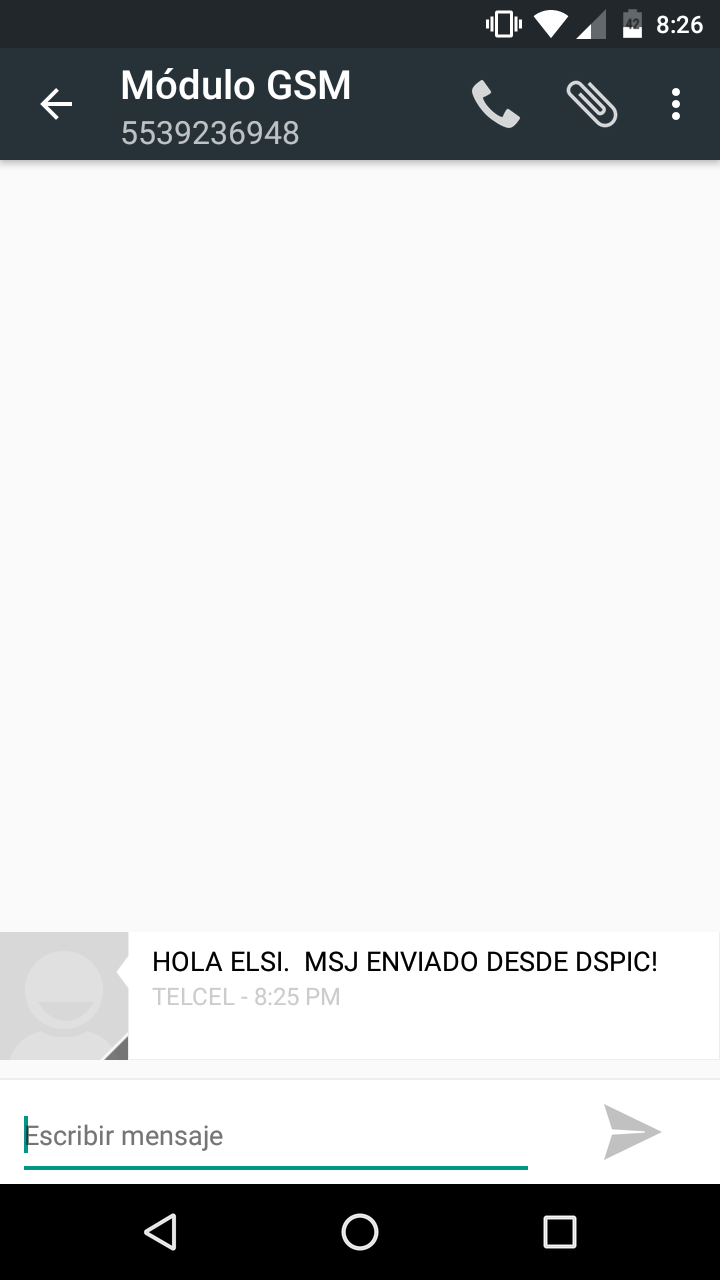
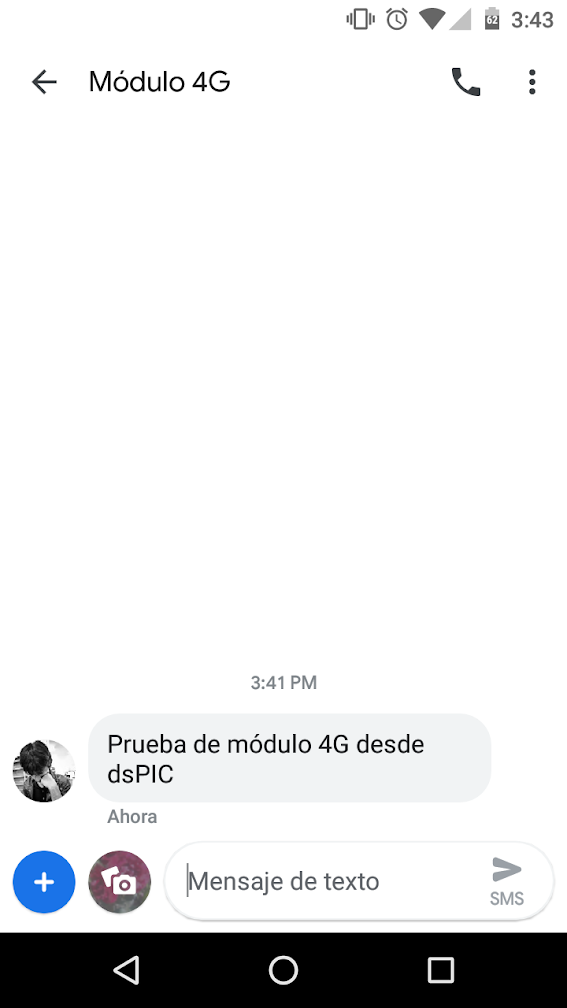
Actualizando documento

Changed region(s): [[0.0, 0.0, 1.0, 0.1538], [0.0, 0.6458, 0.9295, 0.9226], [0.8395, 0.8304, 0.9295, 0.9226]]

diff --git a/C2-DT/AvancesPruebas/pantallas.tex b/C2-DT/AvancesPruebas/pantallas.tex
@@ -1,242 +1,21 @@
-%=================ESTADO DEL ARTE Y MARCO TEÓRICO=================
+\section{Aplicación móvil}
 
-%=================ESTADO DEL ARTE=================
-\section{Estado del arte}
-%\TODO \textbf{Recuerdo que había que diferenciar entre los artículos y las tesis pero no sé cómo hacerlo. ¿Así está bien?} 
-\subsection{Tesis}
-	Diana Olvera y José Gonzáles proponen un Sistema de Monitoreo de Signos Vitales capaz de monitorear la presión arterial, el ritmo cardíaco y la temperatura corporal desde el mismo dispositivo con la finalidad de que estas mediciones puedan ser realizadas desde cualquier lugar  sin tener un amplio conocimiento en medicina para su uso. Este sistema se desarrolló implementando el PIC18F4550 para procesar las señales provenientes de los sensores y desplegarlos en un display LCD[2].\\
-	
-	En el “Sistema de monitoreo remoto y evaluación de signos vitales en pacientes con enfermedades crónicas”, López, Guerrero y Ramos proponen un sistema que sensa los signos vitales de un paciente y utiliza bluetooth y WiFi para transmitir dicha información a un dispositivo móvil encargado de evaluarla y alertar a alguna persona en caso de requerirse[3].\\
-	
-	Existe un prototipo de hardware/software propuesto por Chávez, Martínez y Torres el cual mediante el uso de un sistema embebido dentro de un microcontrolador DSPIC30F3013 ayuda en el procesamiento, medición y envío mediante una red, tres signos vitales (presión arterial, frecuencia cardiaca y temperatura corporal), dichas mediciones son procesadas por el microcontrolador y enviadas mediante UART hacia un controlador Ethernet para ser recibidas y mostradas por una aplicación diseñada para el usuario[4]. \\
+Un completo análisis para el desarrollo de la aplicación móvil se incluye como Anexo de este documento. Esta sección pretende mostrar los resultados de la implementación realizada.
 
-\subsection{Artículos}
-	El prototipo diseñado por Li, Cummings, Lan, Graves y Wu en [5], es un sistema de monitoreo de la frecuencia cardiaca y respiratoria de bebés. Está compuesto por una unidad de monitoreo y una unidad receptora. Con un circuito de radiofrecuencia es capaz de producir y recibir señales de radio para la detección de los signos vitales sin la necesidad de que un sensor tenga contacto con el bebé. Utiliza un microcontrolador para procesar la señal recibida y un chip de comunicación XBee para la comunicación inalámbrica con el módulo receptor. \\
-	
-	En el artículo [6], Girbau, Ramos , Lázaro y Villarino, propone un sistema para el monitoreo de los signos vitales utilizando un radar Doppler y la interfaz Zigbee para enviar la información del sensor de microondas. En este sistema se detecta la respiración y la frecuencia cardiaca, se adquiere con el sistema Zigbee y se transmite vía radiofrecuencia. Permite el monitoreo simultáneo de varias personas localizadas en diferentes nodos Zigbee. \\
-	
-	Cruz y Barros proponen en [7] el uso de PDAs la adquisición de los signos vitales y su transmisión a un servidor de cuidados de la salud en donde un especialista pueda analizar el electrocardiograma (ECG) generado. Para la adquisición del ECG utiliza electrodos en el paciente. Y para la sincronización de los datos almacenados en la PDA con el servidor, requiere de una conexión a Internet.
-	
-%=================MARCO TEÓRICO=================
-\section{Marco teórico}
-	\subsection{Internet de las cosas (IoT)}
-	El Internet de las cosas (IoT) es un concepto y un paradigma que considera la presencia generalizada en el entorno de una variedad de cosas/objetos que contienen tecnología integrada para comunicarse a través de conexiones alámbricas e inalámbricas con el fin de interactuar entre sí y cooperar con otras cosas/objetos para crear nuevas aplicaciones/servicios y alcanzar objetivos comunes.
-	
-	\subsection{Sistemas embebidos}
-	Los sistemas embebidos son combinaciones de software y hardware con restricciones de recursos que se dedica a una aplicación o parte específica de una aplicación o sistema más grande. Son controlados por una computadora incrustada en ellos, lo que implica que se encuentra dentro del sistema general, oculto a la vista, formando una parte integral de un conjunto mayor. Es probable que dicha computadora sea un microprocesador o microcontrolador.\\
-	
-	Los sistemas embebidos tienen varias características comunes:
-	\begin{itemize}
-		\item Un sistema embebido generalmente ejecuta solo un programa, repetidamente.
-		\item Su diseño debe ser optimizado para reducir costo y espacio. Contienen sólo los recursos de hardware suficientes para cumplir con  los  requerimientos  de  funcionalidad  de  la  aplicación.
-		\item Muchos sistemas embebidos deben reaccionar continuamente a los cambios en el entorno del sistema y deben calcular ciertos resultados sin demora.
-	\end{itemize}
-	\subsubsection{Arquitectura de los sistemas embebidos}
-	\TOCHK{Agregar imagen y descripción de su arquitectura}
-	\subsection{Signos vitales}
-	Los signos vitales son indicadores que reflejan el estado fisiológico de los órganos vitales (cerebro, corazón, pulmones). Sus variaciones expresan cambios que ocurren en el organismo, algunos de índole fisiológico y otros de tipo patológico. Los valores considerados normales se ubican dentro de rangos y estos rangos varían según la edad y en algunos casos también con el sexo. Los cuatros principales signos vitales son: 
-	\begin{enumerate}
-		\item Frecuencia cardíaca.
-		\item Frecuencia respiratoria.
-		\item Presión arterial.
-		\item Temperatura.
-	\end{enumerate}
+La aplicación permitirá al usuario registrar ciertos datos de los pacientes, incluyendo el número telefónico asociado a la tarjeta SIM ubicada en el módulo 4G. Una vez registrado un usuario, podrá consultar y editar esta información. \\
 
-	\subsubsection{Frecuencia cardíaca}
-	El pulso está representado por la expansión rítmica de las arterias producida por el pasaje de sangre que es bombeada por el corazón originada en la contracción del ventrículo izquierdo, y que resulta en la expansión y contracción regular del calibre de las arterias; representa el rendimiento del latido cardíaco y la adaptación de las arterias.\\
-	
-	Los valores del Pulso arterial se miden a partir de la “Frecuencia Cardíaca” o sea el número de pulsaciones o latidos que ocurren en “Un Minuto”. La frecuencia cardíaca varía dependiendo de diferentes factores, como: la edad, sexo, actividad física, estado emocional, fiebre, medicamentos y hemorragias.
-	
-	\begin{table}[htbp]
-		\begin{center}
-			\begin{tabular}{|l|l|}
-				\hline
-				\textbf{Edad} & \textbf{Pulsaciones por minuto} \\
-				\hline \hline
-				Recién nacido & 120 - 170  \\
-				\hline
-				Lactante menor & 120 - 160  \\
-				\hline
-				Lactante mayor & 110 - 130  \\
-				\hline
-				De 2 a 4 años & 100 - 120  \\
-				\hline
-				De 6 a 8 años & 100 - 115  \\
-				\hline
-				Adulto & 60 - 80  \\
-				\hline
-			\end{tabular}
-			\caption{Valores normales de frecuencia cardíaca.}
-		\end{center}
-	\end{table}
+Al consultar los registros de los signos vitales, se recuperará la información de los mensajes de texto y de la base de datos para mostrar la información actualizada de estas mediciones. \\
 
-	\subsubsection{Frecuencia respiratoria}
-	Respiración es el término que se utiliza para indicar el intercambio de oxígeno y dióxido de carbono que se lleva a cabo en los pulmones y tejidos. El ciclo respiratorio comprende una fase de inspiración y otra de espiración:
-	\begin{itemize}
-		\item \textbf{Inspiración:} fase activa; se inicia con la contracción del diafragma y los músculos intercostales.
-		\item \textbf{Espiración:} fase pasiva; depende de la elasticidad pulmonar.
-	\end{itemize}
-	
-	La frecuencia respiratoria es el número de respiraciones que suceden en un minuto, y comprende el proceso de inhalación y exhalación.\\
-	
-	La frecuencia se mide por lo general cuando una persona está en reposo y consiste simplemente en contar la cantidad de respiraciones durante un minuto cada vez que se eleva el pecho. La frecuencia respiratoria puede aumentar con la fiebre, las enfermedades y otras afecciones médicas.
-	
-	\begin{table}[htbp]
-		\begin{center}
-			\begin{tabular}{|l|l|}
-				\hline
-				\textbf{Edad} & \textbf{Respiraciones por minuto} \\
-				\hline \hline
-				Recién nacido & 30 - 80  \\
-				\hline
-				Lactante menor & 20 - 40  \\
-				\hline
-				Lactante mayor & 20- 30  \\
-				\hline
-				De 2 a 4 años & 20- 30  \\
-				\hline
-				De 6 a 8 años & 20 - 25  \\
-				\hline
-				Adulto & 12 -20  \\
-				\hline
-			\end{tabular}
-			\caption{Valores normales de frecuencia respiratoria.}
-		\end{center}
-	\end{table}
-	
-	\subsubsection{Presión arterial}
-	Es una medida de la presión que ejerce la sangre sobre las paredes arteriales en su impulso a través de las arterias. Debido a que la sangre se mueve en forma de ondas, existen dos tipos de medidas de presión: la presión sistólica, que es la presión de la sangre debida a la contracción de los ventrículos, es decir, la presión máxima; y la presión diastólica, que es la presión que queda cuando los ventrículos se relajan; ésta es la presión mínima. Tanto la presión sistólica como la diastólica se registran en "mm de Hg" (milímetros de mercurio). \\
-	
-	La Presión arterial media se calcula con la siguiente fórmula: 
-	
+Estas funcionalidades se muestran en la figura \ref{fig:casosUso:AplicacionResumen}
+
+\begin{figure}[htpb!]
 	\begin{center}
-		\textit{PA = Presión sistólica – Presión diastólica / 3 + Presión diastólica.}
+		\fbox{\includegraphics[width=1\textwidth]{ModeloComportamiento/imagenes/CasosUso_Usuario.png}}
+		\caption{Diagrama de casos de uso del módulo Aplicación Móvil. \label{fig:casosUso:AplicacionResumen}}
 	\end{center}
-	
-	\begin{table}[htbp]
-		\begin{center}
-			\begin{tabular}{|l|l|l|}
-				\hline
-				\textbf{Edad} & \textbf{Presión Sistólica (mmHg)} & \textbf{Presión Diastólica (mmHg)} \\
-				\hline \hline
-				Lactante menor & 60 - 90 & 30 - 60 \\
-				\hline
-				2 años  & 78 - 112 & 48 - 78 \\
-				\hline
-				4 años & 85 - 114 & 52 - 85 \\
-				\hline
-				8 años & 95 - 135 & 58 - 88 \\
-				\hline
-				Adulto & 100 - 140 & 60 - 90 \\
-				\hline
-			\end{tabular}
-			\caption{Valores normales de la presión arterial.}
-		\end{center}
-	\end{table}
-	
-	\subsubsection{Temperatura}
-	La temperatura corporal representa el estado térmico del organismo y expresa el balance entre la producción de calor en el cuerpo (termogénesis) y la pérdida (termólisis). En el hombre, un conjunto de funciones fisiológicas contribuye a mantener constante la temperatura, que se mide por medio de termómetros. La temperatura normal del cuerpo varía según el sexo, la actividad reciente, el consumo de alimentos y líquidos, la hora del día y, en las mujeres, la etapa del ciclo menstrual. 
-	
-	\begin{table}[htbp]
-		\begin{center}
-			\begin{tabular}{|l|l|}
-				\hline
-				\textbf{Edad} & \textbf{Grados Celsius} \\
-				\hline \hline
-				Recién nacido & 36.1 - 37.7  \\
-				\hline
-				Lactante & 37.2  \\
-				\hline
-				De 2 a 8 años & 37.0  \\
-				\hline
-				Adulto & 36.0 - 37.0  \\
-				\hline
-			\end{tabular}
-			\caption{Valores normales de temperatura.}
-		\end{center}
-	\end{table}
-	
-	\subsection{Sensores de temperatura}
-	Un sensor de temperatura es un dispositivo que proporciona la medición de temperatura a través de una señal eléctrica. \\
-		
-	Se utilizan en diversas aplicaciones tales como elaboración de alimentos, climatización para control ambiental, dispositivos médicos, manipulación de productos químicos y control de dispositivos en el sector automotriz, entre otros. \\
-		
-	Los sensores de temperatura se utilizan para asegurar que la temperatura de algún objeto se encuentre dentro de un cierto rango, lo que proporciona seguridad en el uso de la aplicación. \\
-		
-	Dependiendo del dispositivo en el que se instalará el sensor de temperatura y el propósito de la aplicación, se deberá utilizar un tipo específico de sensor para medir la temperatura de manera precisa y eficiente, pues en muchos casos la capacidad de respuesta y precisión del circuito de detección puede ser crítica para una pronta decisión.\\
-	
-	Algunos de los tipos más comunes de sensores de temperatura son los siguientes:
-	
-		\begin{itemize}
-			\item \textbf{Termistores:} Un termistor es un elemento con una resistencia eléctrica que cambia en respuesta a la temperatura. Este nombre se deriva del término más descriptivo "resistencia térmicamente sensible".\\
-						
-			Los termistores son un tipo de semiconductor, lo que significa que tienen mayor resistencia que los materiales conductores, pero menor resistencia que los materiales aislantes. La relación entre la temperatura de un termistor y su resistencia depende en gran medida de los materiales de los que está compuesta.\\
-			
-			Existen dos clases de termistores los que presentan un coeficiente negativo de temperatura (NTC), cuya resistencia disminuye con la temperatura y coeficiente positivo con la temperatura  (PTC) cuya resistencia aumenta con la temperatura. Los termistores NTC son los más usados para medición de temperatura.
-			
-			\item \textbf{Circuitos integrados:}
-			\item \textbf{Termopares:} Los termopares se usan comúnmente para medir temperaturas más altas y rangos de temperatura más grandes.\\
-			
-			Este tipo de sensor de temperatura consta de dos cables de diferentes metales conectados en dos puntos. La tensión variable entre estos dos puntos refleja cambios proporcionales en la temperatura. La precisión es baja, de 0.5 $^{\circ}$C a 5 $^{\circ}$C. Sin embargo, operan en el rango de temperatura más amplio, de -200 $^{\circ}$C a 1750 $^{\circ}$C.			
-		\end{itemize}
-	
-	\subsection{Sensores de pulso}
-		\begin{itemize}
-			\item Fotopletismógrafos
-			\item ECG
-		\end{itemize}
-	
-	\subsection{Redes inalámbricas}	
-	Las redes inalámbricas son conjuntos de dispositivos informáticos comunicados entre sí  sin la necesidad de utilizar cables de ningún tipo. Las redes inalámbricas funcionan de manera similar a las redes cableadas, sin embargo, las redes inalámbricas deben convertir las señales de información en una forma adecuada para la transmisión a través del medio de aire. \\
-	
-	Las redes inalámbricas se pueden clasificar en cuatro grupos específicos según el área de aplicación y el alcance de la señal, como se muestra en la figura . Se llama alcance a la distancia máxima a la que pueden situarse las dos partes de la comunicación inalámbrica.
-	
-	\begin{figure}[htbp!]
-		\centering
-		\fbox{\includegraphics[width=0.8\textwidth]{images/marcoTeorico/redesInalambricas.png}}
-		\caption{Arquitectura del sistema.}
-		\label{fig:tiposRedes}
-	\end{figure}
-	
-	
-	\subsubsection{\textbf{Redes inalámbricas de área personal (Wireless Personal-Area Networks - WPAN)}}
-	Las redes inalámbricas de área personal permiten la comunicación en un rango de distancias muy corto, unos 10 metros, baja velocidad, menos de 1 Mbps y con necesidad de visión sin obstáculos.\\
-	
-	Una conexión realizada a través de una WPAN implica poca o ninguna infraestructura o conectividad directa fuera del enlace establecido. Esto permite soluciones pequeñas, eficientes en energía y de bajo coste que pueden ser implementadas en una amplia gama de dispositivos informáticos y de comunicación portátil y móvil, como ordenadores, PDA, impresoras, ratones, micrófonos, auriculares, etc.
-	
-	\subsubsection{\textbf{Redes inalámbricas de área local (Wireless Local-Area Networks - WLAN)}}
-	Las redes inalámbricas de área local (WLAN) están diseñadas para proporcionar acceso inalámbrico en zonas con un rango típico de hasta 100 metros y son utilizadas dentro de un mismo edificio o grupo de edificios. Esto proporciona a los usuarios la capacidad de moverse dentro de un área de cobertura local y permanecer conectado a la red. 
-	
-	\subsubsection{\textbf{Redes inalámbricas de área metropolitana (Wireless Metropolitan-Area Networks - WMAN)}}
-	Las redes inalámbricas de área metropolitana (WMAN) forman el tercer grupo de redes inalámbricas. Se llama redes inalámbricas de área metropolitana, WMAN (Wireless Metropolitan Area Networks), a aquellas redes que tienen una cobertura desde unos cientos de metros hasta varios kilómetros. El objetivo es poder cubrir el área de una ciudad o entorno metropolitano. 
-	
-	\subsubsection{\textbf{inalámbricas de área amplia (Wireless Wide-Area Networks - WWAN)}}
-	Las redes inalámbricas de área amplia se extienden a miles de kilómetros y suelen utilizar frecuencias con licencia. Este tipo de redes se pueden mantener en grandes áreas, tales como ciudades o países, a través de los múltiples sistemas de satélites o ubicaciones con antena atendidos por un proveedor de servicios de Internet. Las WWAN permiten la interconexión de varios sistemas de comunicaciones ayudando a que ésta sea cada vez más globalizada.
+\end{figure}
 
-	\subsection{Tecnologías inalámbricas}
-	Existen muchas tecnologías diferentes que difieren en la frecuencia de transmisión utilizada, la velocidad y el alcance de sus transmisiones. Cada una de esas tecnologías posee diferentes características que la hacen adecuada para diferentes tipos de aplicaciones. Asimismo existen diferentes tecnologías que pueden ser implementadas al mismo tipo de aplicación. Algunas de las tecnologías más significativas y con mayor penetración en el mercado son las siguientes:
-	
-	\subsubsection{Bluetooth}
-	Bluetooth es un enlace radio de corto alcance que aparece asociado a las Redes de Área Personal Inalámbricas (WPAN) y pertenece al estándar IEEE 802.15.1. Originalmente Bluetooth fue diseñado para comunicaciones omnidireccionales (punto a multipunto), de bajo consumo de energía, corto alcance y con dispositivos baratos, reemplazando el uso de cables y conectando los dispositivos a través de una conexión ad hoc por radio. \\
-		
-	Bluetooth trabaja en el rango de frecuencias de 2,402 GHz a 2,480 GHz (Banda ISM). Los terminales pueden estar en movimiento y no tener línea de vista entre sí; además, las velocidades de transmisión oscilan entre 720kbps y 1 Mbps. 
-	
-	\subsubsection{Zigbee}
-	ZigBee está basado en el estándar IEEE 802.15.4 que fue desarrollado como un estándar global abierto para abordar las necesidades de fácil aplicación, alta fiabilidad, bajo costo, bajo consumo y bajas velocidades de transmisión de datos en redes de dispositivos inalámbricos.\\
-		
-	Zigbee fue creado con  con la finalidad de promover el desarrollo e implantación de una tecnología inalámbrica bidireccional de bajo coste vía radio, para usarla en dispositivos de domótica, automatización de edificios (inmótica), control industrial, periféricos de PC o sensores médicos.  Tiene velocidades comprendidas entre 20Kbps y 250Kbps y rangos de 10 m a 75 m y opera en las bandas sin licencia 2.4 GHz, 900 MHz y 868 MHz, lo suficiente para satisfacer las necesidades de un sensor y de automatización usando redes inalámbricas.
-	
-	\subsubsection{Familia IEEE 802.11 (WI-FI)}
-	
-	
-	\subsubsection{WiMAX}
-	
-	
-	\subsubsection{GSM (Global System for Mobile Comunications)}
-	GSM (Sistema Global para Comunicaciones Móviles) es una tecnología celular digital abierta que se utiliza para transmitir servicios móviles de voz y datos. GSM admite llamadas de voz y velocidades de transferencia de datos de hasta 9.6 kbps, junto con la transmisión de SMS (Servicio de Mensajes Cortos). \\
+\subsection{Diseño de pantallas}
 
-GSM opera en bandas y espectros armonizados en la mayor parte del mundo, combinado con la capacidad de roaming internacional de GSM, permite a los viajeros acceder a los mismos servicios móviles en el hogar y en el extranjero. GSM permite llegar a individuos a través del mismo número de móvil en hasta 219 países. \\
 
-Las redes terrestres GSM ahora cubren más del 90\% de la población mundial. El servicio de roaming por satélite GSM también ha ampliado el acceso a servicios en áreas donde la cobertura terrestre no está disponible.
-
-	
+PANTALLAS Y FUNCIONALIDAD

diff --git a/C2-DT/ModeloComportamiento/AplicacionMovil/cu4/iu.tex b/C2-DT/ModeloComportamiento/AplicacionMovil/cu4/iu.tex
@@ -10,7 +10,7 @@ En la figura \ref{IU4} se muestra la pantalla ''Editar información del paciente
 Al igual que en el registro, se validará que se ingresen todos los datos necesarios, los cuales son:
 \begin{enumerate}
 	\item Nombre del paciente que será monitoreado.
-	\item Número telefónico de la tarjeta SIM que tendrá integrada el módulo de comunicación GSM para en envío de mensajes.
+	\item Número telefónico de la tarjeta SIM que tendrá integrada el módulo de comunicación 4G para en envío de mensajes.
 	\item Fecha de nacimiento del paciente, la cual debe encontrarse dentro del rango establecido con base en la regla de negocio \cdtIdRef{RN3}{Fecha de nacimiento válida}.
 	\item Sexo del paciente.
 \end{enumerate}

diff --git a/C2-DT/ModeloComportamiento/AplicacionMovil/cu2/iu.tex b/C2-DT/ModeloComportamiento/AplicacionMovil/cu2/iu.tex
@@ -10,7 +10,7 @@ En la figura \ref{IU2} se muestra la pantalla ''Registrar paciente'', por medio 
 Los datos necesarios para el registro de un paciente son:
 \begin{enumerate}
 	\item Nombre del paciente que será monitoreado.
-	\item Número telefónico de la tarjeta SIM que tendrá integrada el módulo de comunicación GSM para en envío de mensajes.
+	\item Número telefónico de la tarjeta SIM que tendrá integrada el módulo de comunicación 4G para en envío de mensajes.
 	\item Fecha de nacimiento del paciente, la cual debe encontrarse dentro del rango establecido con base en la regla de negocio \cdtIdRef{RN3}{Fecha de nacimiento válida}.
 	\item Sexo del paciente.
 \end{enumerate}

diff --git a/C2-DT/ModeloComportamiento/AplicacionMovil/cu2/cu.tex b/C2-DT/ModeloComportamiento/AplicacionMovil/cu2/cu.tex
@@ -2,7 +2,7 @@
 	{	
 		Permite al \hyperlink{actor:usuario}{Usuario} de la aplicación móvil, registrar un nuevo paciente del cual requiere monitorear los signos vitales de temperatura y frecuencia cardíaca.\\
 		
-		Para registrar un nuevo paciente, el usuario debe ingresar los datos personales del mismo, así como en número telefónico asignado al módulo GSM del sistema que utilizará el paciente.
+		Para registrar un nuevo paciente, el usuario debe ingresar los datos personales del mismo, así como en número telefónico asignado al módulo 4G del sistema que utilizará el paciente.
 		 
 		 
 	}

diff --git a/C2-DT/ModeloNegocios/actores.tex b/C2-DT/ModeloNegocios/actores.tex
@@ -28,6 +28,6 @@ Los actores son los perfiles asociados a las diversas áreas que intervienen en 
 	
 \end{actor}
 
-\begin{actor}{Sistema}{sistema}{Representa el sistema embebido compuesto por el microcontrolador, los sensores de pulso cardíaco y temperatura, y el módulo GSM.}
+\begin{actor}{Sistema}{sistema}{Representa el sistema embebido compuesto por el microcontrolador, sensor de pulso cardíaco, sensor de temperatura y el módulo de comunicación 4G.}
 	
 \end{actor}

diff --git a/C2-DT/ModeloComportamiento/AplicacionMovil/cu4/cu.tex b/C2-DT/ModeloComportamiento/AplicacionMovil/cu4/cu.tex
@@ -29,7 +29,7 @@
 	\UCitem{Entradas}{
 		\begin{UClist}
 			\UCli Nombre completo del paciente. \ioEscribir
-			\UCli Número telefónico de la tarjeta SIM insertada en el módulo GSM del sistema. \ioEscribir
+			\UCli Número telefónico de la tarjeta SIM insertada en el módulo 4G del sistema. \ioEscribir
 			\UCli Fecha de nacimiento del paciente. \ioCalendario
 			\UCli Sexo del paciente. \ioSeleccionar
 		\end{UClist}	

diff --git a/C2-DT/AvancesPruebas/pruebas.tex b/C2-DT/AvancesPruebas/pruebas.tex
@@ -12,4 +12,5 @@ El presente capítulo incluye las pruebas presentadas como avance para la primer
 \cfinput{AvancesPruebas/pruebaSensorPulso}
 \cfinput{AvancesPruebas/pruebaSensorTemp}
 \cfinput{AvancesPruebas/pruebaGSM}
+\cfinput{AvancesPruebas/pantallas}
 %\cfinput{AvancesPruebas/trabajoTT2}
